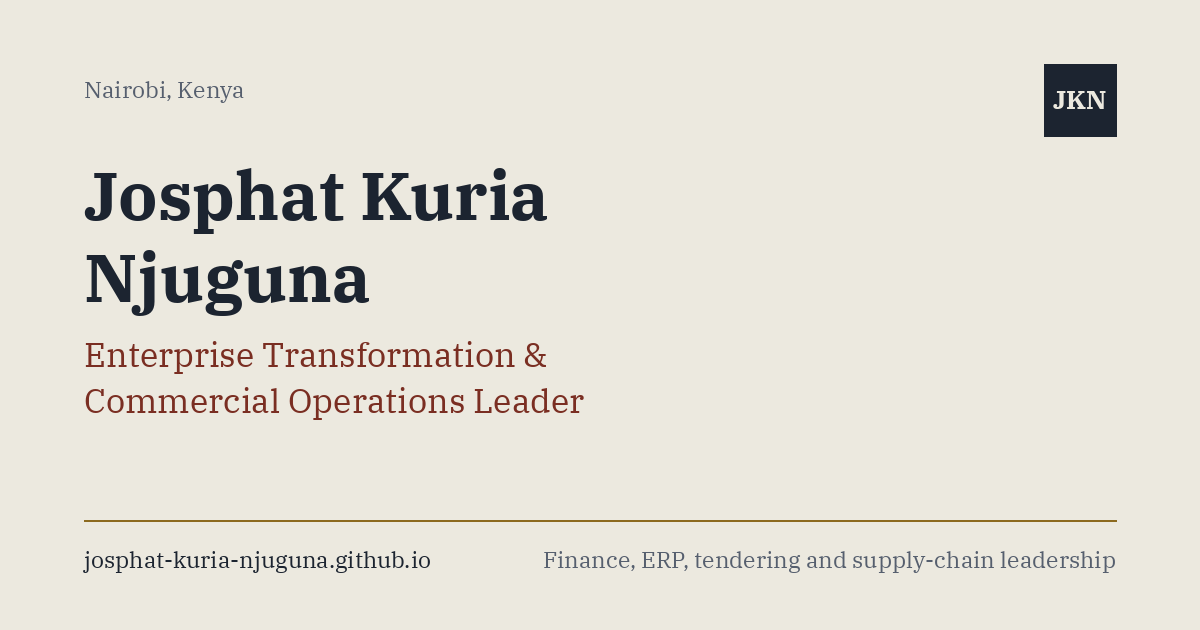
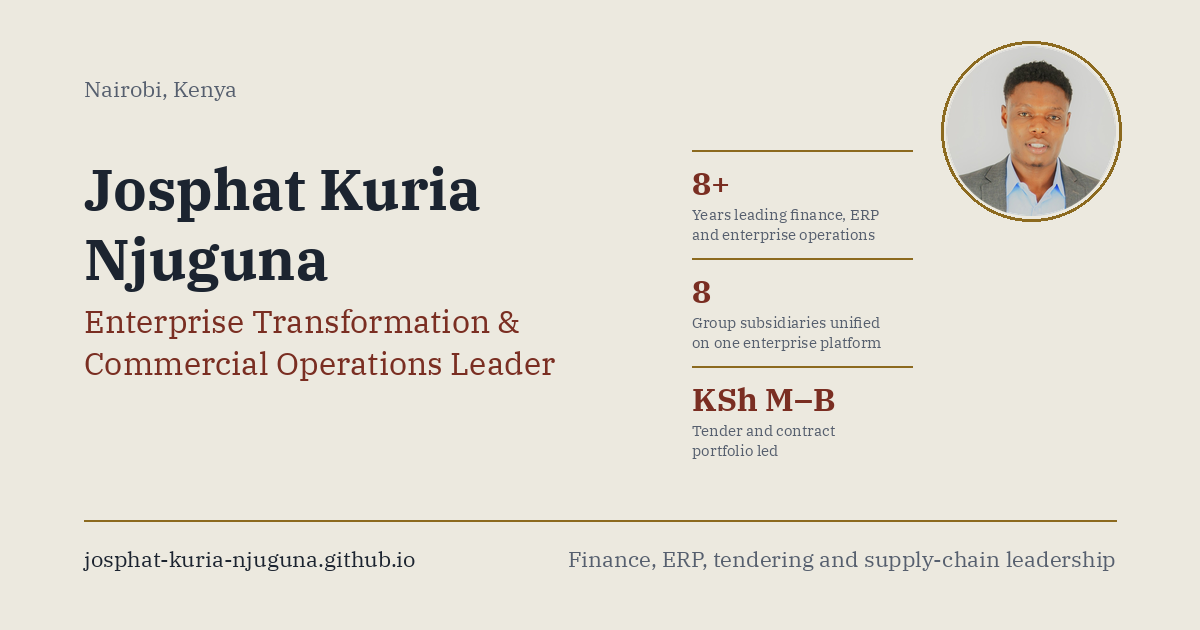
Add files via upload

diff --git a/index.html b/index.html
@@ -112,6 +112,13 @@
   .hero { padding: 5.5rem 0 3rem; border-bottom: 1px solid var(--rule); }
   .hero-inner {
     animation: riseIn .7s ease-out both;
+    display: flex; justify-content: space-between; align-items: flex-start; gap: 2.5rem;
+  }
+  .hero-text { flex: 1 1 380px; min-width: 0; }
+  .hero-photo { flex: 0 0 auto; }
+  .hero-photo img {
+    width: 132px; height: 132px; border-radius: 50%; object-fit: cover;
+    border: 3px solid var(--brass); display: block;
   }
   @keyframes riseIn {
     from { opacity: 0; transform: translateY(10px); }
@@ -235,6 +242,8 @@
   footer.site-footer .copyright { color: var(--ink-soft); font-size: .85rem; }
 
   @media (max-width: 640px) {
+    .hero-inner { flex-direction: column-reverse; gap: 1.25rem; }
+    .hero-photo img { width: 96px; height: 96px; }
     .stats { grid-template-columns: repeat(2, 1fr); }
     .expertise-grid, .credentials-grid { grid-template-columns: 1fr; }
     .hero { padding: 3.5rem 0 2.5rem; }
@@ -255,15 +264,20 @@
 
 <header class="hero" id="top">
   <div class="wrap hero-inner">
-    <p class="hero-location">Nairobi, Kenya</p>
-    <h1>Josphat Kuria Njuguna</h1>
-    <p class="hero-role">Enterprise Transformation & Commercial Operations Leader</p>
-    <p class="hero-summary">Finance and ERP leadership, Group-wide tendering, procurement and OEM/import sourcing, supply chain transformation, and business intelligence.</p>
-    <div class="hero-contact">
-      <a href="mailto:josphatkuria3@gmail.com">josphatkuria3@gmail.com</a>
-      <a href="tel:+254701386907">+254 701 386 907</a>
-      <a href="https://www.linkedin.com/in/kurianjuguna/">linkedin.com/in/kurianjuguna</a>
-      <a class="cv-link" href="Josphat_Kuria_Njuguna_CV.pdf">Download full CV (PDF)</a>
+    <div class="hero-text">
+      <p class="hero-location">Nairobi, Kenya</p>
+      <h1>Josphat Kuria Njuguna</h1>
+      <p class="hero-role">Enterprise Transformation & Commercial Operations Leader</p>
+      <p class="hero-summary">Finance and ERP leadership, Group-wide tendering, procurement and OEM/import sourcing, supply chain transformation, and business intelligence.</p>
+      <div class="hero-contact">
+        <a href="mailto:josphatkuria3@gmail.com">josphatkuria3@gmail.com</a>
+        <a href="tel:+254701386907">+254 701 386 907</a>
+        <a href="https://www.linkedin.com/in/kurianjuguna/">linkedin.com/in/kurianjuguna</a>
+        <a class="cv-link" href="Josphat_Kuria_Njuguna_CV.pdf">Download full CV (PDF)</a>
+      </div>
+    </div>
+    <div class="hero-photo">
+      <img src="photo-hero.jpg" alt="Portrait of Josphat Kuria Njuguna" width="132" height="132">
     </div>
   </div>
 </header>
